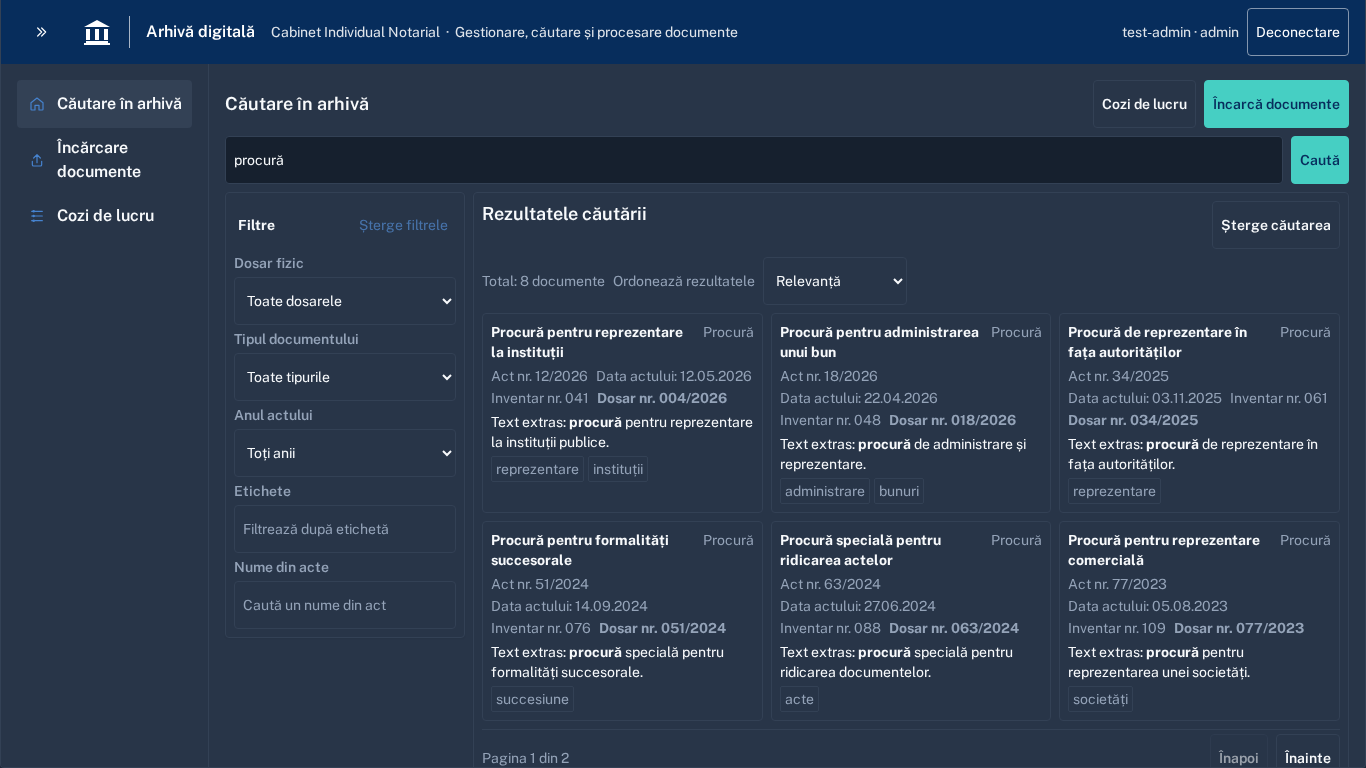
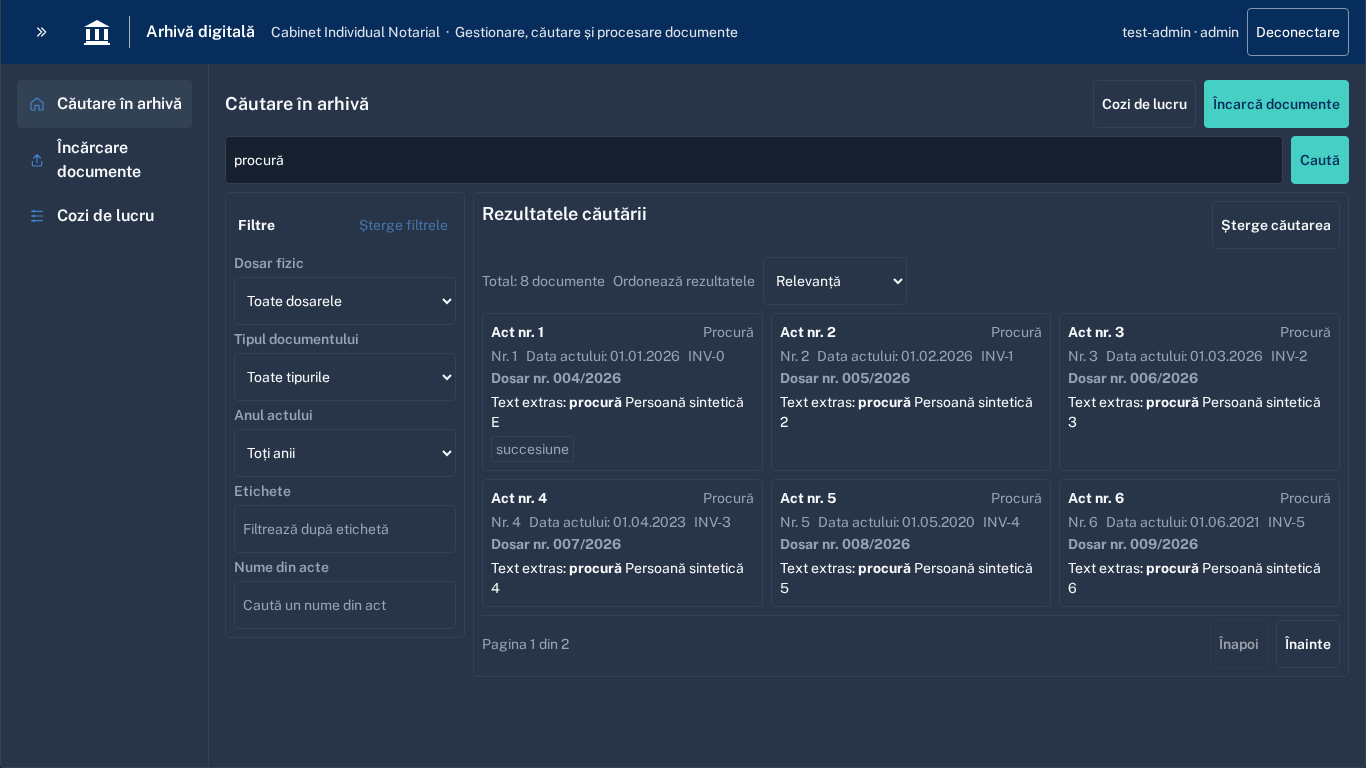
feat(ds-001): complete API-backed archive browsing

diff --git a/frontend/src/components/archiveSearchRepository.js b/frontend/src/components/archiveSearchRepository.js
@@ -13,11 +13,8 @@ function resultItem(row) {
     addedDate: row.approved_at?.slice(0, 10) || '',
     inventory: row.inventory_number || 'Inventar nespecificat',
     dossierNumber: row.physical_dossier_number || 'Dosar nespecificat',
-    dossierId: row.physical_dossier_id,
-    highlight: row.highlight || '',
+    highlight: (row.highlight || '').replace(/<\/?mark>/g, ''),
     tags: row.tags || [],
-    readerExcerpt: row.highlight || '',
-    adminExcerpt: row.highlight || '',
   };
 }
 
@@ -26,7 +23,7 @@ export async function loadArchiveCatalog() {
   const documents = (response.recent || []).map(resultItem);
   return {
     documents,
-    dossiers: (response.physical_dossiers || []).map((item) => ({ id: String(item.id), number: item.physical_dossier_number, context: '' })),
+    dossiers: (response.physical_dossiers || []).map((item) => ({ id: String(item.id), number: item.physical_dossier_number, context: item.context || '' })),
     types: (response.document_types || []).map((item) => item.document_type),
     years: (response.years || []).map((item) => String(item.year)).sort((a, b) => b.localeCompare(a)),
   };

diff --git a/frontend/src/components/ArchiveSearch.jsx b/frontend/src/components/ArchiveSearch.jsx
@@ -189,7 +189,7 @@ export function ArchiveSearch({ user, onUpload, onQueue }) {
       <article>
         <div className="archive-result-heading"><h3><HighlightedText query={query}>{document.title}</HighlightedText></h3><span>{document.type}</span></div>
         <div className="archive-result-meta"><span>{document.actNumber}</span><span>Data actului: {dateLabel(document.actDate)}</span><span>{document.inventory}</span><strong>{document.dossierNumber}</strong></div>
-        <p className="archive-result-excerpt"><HighlightedText query={query}>{excerpt}</HighlightedText></p>
+        <p className="archive-result-excerpt"><span>{staff ? 'Text extras: ' : 'Text disponibil după anonimizare: '}</span><HighlightedText query={query}>{excerpt}</HighlightedText></p>
         {staff && document.tags.length > 0 && <div className="archive-result-tags" aria-label="Etichete ale documentului">{document.tags.map((tag) => <span key={tag}>{tag}</span>)}</div>}
       </article>
     </li>;

diff --git a/backend/database/seeders/ArchiveSearchE2ESeeder.php b/backend/database/seeders/ArchiveSearchE2ESeeder.php
@@ -1,0 +1,84 @@
+<?php
+
+namespace Database\Seeders;
+
+use App\Models\User;
+use Illuminate\Database\Seeder;
+use Illuminate\Support\Facades\DB;
+use RuntimeException;
+
+final class ArchiveSearchE2ESeeder extends Seeder
+{
+    public function run(): void
+    {
+        $username = (string) env('P22_DS001_TEST_USERNAME');
+        $password = (string) env('P22_DS001_TEST_PASSWORD');
+        if ($username === '' || $password === '') {
+            throw new RuntimeException('Set the runtime DS-001 browser test credentials before seeding.');
+        }
+
+        DB::transaction(function () use ($username, $password): void {
+            $admin = User::query()->updateOrCreate(
+                ['username' => $username],
+                ['name' => 'DS-001 browser test', 'email' => 'p22ds001-test@example.test', 'password' => $password, 'role' => 'admin'],
+            );
+            $entry = DB::table('nomenclature_entries')->where('document_type', 'Procură')->orderBy('id')->first();
+            if ($entry === null) {
+                throw new RuntimeException('Seed the Notarial Nomenclature before the DS-001 browser fixtures.');
+            }
+
+            $dossierNumber = 'P22-34-DS001';
+            DB::table('physical_dossiers')->updateOrInsert(
+                ['physical_dossier_number' => $dossierNumber],
+                ['archival_indicator' => $entry->archival_indicator, 'inventory_number' => 'P22-34-DS001',
+                    'retention_time' => $entry->retention_term, 'description' => 'Fixture DS-001'],
+            );
+            $dossierId = (int) DB::table('physical_dossiers')->where('physical_dossier_number', $dossierNumber)->value('id');
+
+            for ($index = 0; $index < 8; $index++) {
+                $number = $index + 1;
+                $documentId = sprintf('34000000-0034-4034-8034-%012d', $number);
+                $versionId = sprintf('34000000-0034-4034-8034-%012d', $number + 100);
+                $actDate = sprintf('%04d-01-01', 2019 + $index);
+                $approvedAt = now()->subDays($index)->startOfDay();
+                $metadata = [
+                    'act_number' => 'DS001-'.$number,
+                    'act_date' => $actDate,
+                    'physical_dossier_id' => $dossierId,
+                    'physical_dossier_number' => $dossierNumber,
+                    'inventory_number' => 'P22-34-DS001',
+                    'tags' => ['DS-001 test'],
+                ];
+
+                DB::table('documents')->updateOrInsert(
+                    ['id' => $documentId],
+                    ['physical_dossier_id' => $dossierId, 'nomenclature_entry_id' => $entry->id,
+                        'metadata' => json_encode($metadata, JSON_THROW_ON_ERROR), 'current_version_id' => null,
+                        'created_by' => $admin->id, 'created_at' => $approvedAt, 'updated_at' => $approvedAt],
+                );
+                DB::table('document_versions')->updateOrInsert(
+                    ['id' => $versionId],
+                    ['document_id' => $documentId, 'version_number' => 1,
+                        'source_storage_keys' => json_encode(['synthetic-ds001-source'], JSON_THROW_ON_ERROR),
+                        'source_sha256' => hash('sha256', $documentId), 'image_sha256s' => null,
+                        'redacted_pdf_storage_key' => 'synthetic-ds001-redacted', 'redacted_sha256' => hash('sha256', $versionId),
+                        'metadata' => json_encode($metadata, JSON_THROW_ON_ERROR), 'nomenclature_entry_id' => $entry->id,
+                        'retention_status' => 'calculated', 'retention_base_date' => $actDate,
+                        'first_eligible_date' => null, 'approved_by' => $admin->id,
+                        'approved_at' => $approvedAt, 'created_at' => $approvedAt, 'updated_at' => $approvedAt],
+                );
+                DB::table('documents')->where('id', $documentId)->update(['current_version_id' => $versionId]);
+                DB::table('archive_search_documents')->updateOrInsert(
+                    ['document_id' => $documentId],
+                    ['version_id' => $versionId, 'physical_dossier_id' => $dossierId, 'nomenclature_entry_id' => $entry->id,
+                        'staff_metadata' => json_encode($metadata, JSON_THROW_ON_ERROR),
+                        'reader_metadata' => json_encode(array_diff_key($metadata, ['tags' => true]), JSON_THROW_ON_ERROR),
+                        'staff_text' => 'Document controlat pentru căutarea DS-001',
+                        'reader_text' => 'Document controlat pentru căutarea DS-001',
+                        'document_type' => 'Procură', 'act_date' => $actDate, 'approved_at' => $approvedAt,
+                        'created_at' => $approvedAt, 'updated_at' => $approvedAt],
+                );
+            }
+        });
+    }
+}

diff --git a/backend/app/Http/Controllers/ArchiveController.php b/backend/app/Http/Controllers/ArchiveController.php
@@ -20,7 +20,9 @@ final class ArchiveController
         $groups = (clone $query)->select('document_type', DB::raw('count(*) as total'))
             ->groupBy('document_type')->orderBy('document_type')->get();
         $dossiers = (clone $query)->join('physical_dossiers as dossier', 'dossier.id', '=', 'archive_search_documents.physical_dossier_id')
-            ->select('dossier.id', 'dossier.physical_dossier_number', DB::raw('count(*) as total'))
+            ->select('dossier.id', 'dossier.physical_dossier_number',
+                DB::raw("string_agg(DISTINCT archive_search_documents.document_type, ', ' ORDER BY archive_search_documents.document_type) as context"),
+                DB::raw('count(*) as total'))
             ->groupBy('dossier.id', 'dossier.physical_dossier_number')->orderBy('dossier.physical_dossier_number')->get();
         $years = (clone $query)->whereNotNull('act_date')->selectRaw('EXTRACT(YEAR FROM act_date)::integer as year, count(*) as total')
             ->groupByRaw('EXTRACT(YEAR FROM act_date)')->orderBy('year')->get();
